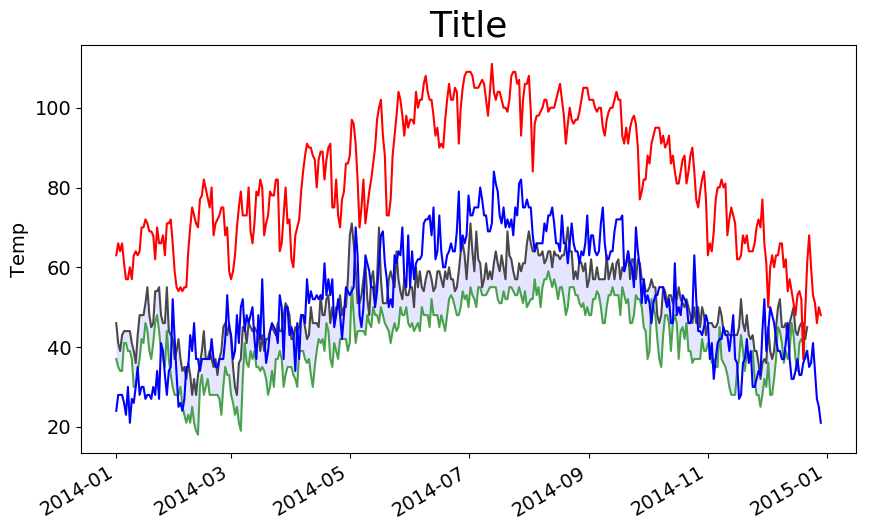
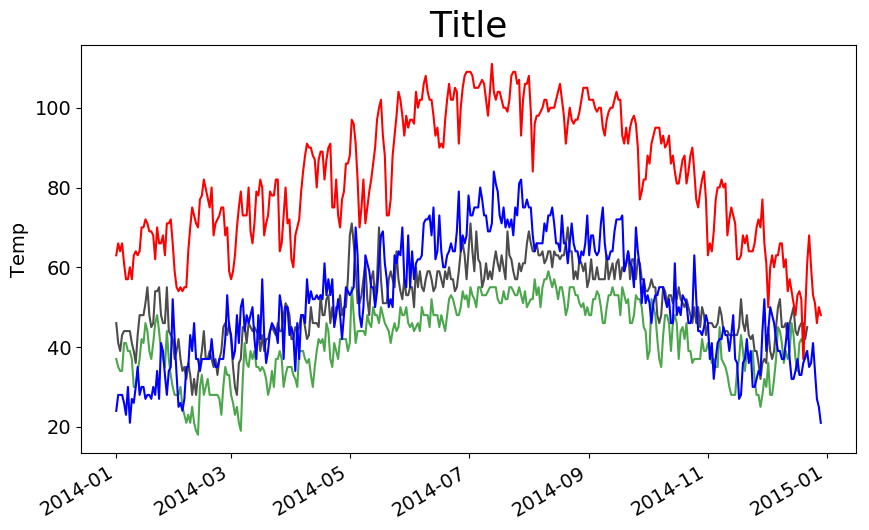
CSV and JSON work

Changed region(s): [[0.1864, 0.4528, 0.901, 0.7849], [0.1243, 0.5736, 0.2175, 0.6943], [0.901, 0.634, 0.9321, 0.6642]]

diff --git a/CSV File Vizualization/sitka_death_valley_rainfall.py b/CSV File Vizualization/sitka_death_valley_rainfall.py
@@ -1,17 +1,36 @@
 import csv
+import matplotlib.pyplot as plt
+from datetime import datetime
+import pygal
 
 filename = 'sitka_weather_2014.csv'
 with open(filename) as f:
     reader = csv.reader(f)
     header = next(reader)
-    print(reader)
-    for index, name in enumerate(reader):
-        print(index, name)
+    # for index, name in enumerate(reader):
+    #     print(index, name)
 
     dates, precips = [], []
     for row in reader:
-        date = row[0]
-        precip = row[19]
+        date = datetime.strptime(row[0], '%Y-%m-%d')
+        precip = int(float(row[19]))
 
         dates.append(date)
         precips.append(precip)
+
+# plt.plot()
+fig = plt.figure(figsize=(10, 6))
+plt.plot(dates, precips, c='red', alpha=.7)
+plt.title('Sitka - Death Valley rainfall comparison -2014', fontsize=26)
+plt.xlabel('', fontsize=14)
+plt.ylabel('Precipitations', fontsize=14)
+plt.tick_params(axis='both', labelsize=14)
+fig.autofmt_xdate()
+plt.savefig('images/sitka_valley_rainfall_2014.png', bbox_inches='tight')
+plt.show()
+
+# pygal.Bar()
+hist = pygal.Bar()
+hist.title = 'Sitka - Death Valley rainfall comparison -2014'
+hist.add('2014', precips)
+hist.render_to_file('images/sitka_valley_rainfall_2014.svg')

diff --git a/CSV File Vizualization/sitka_death_valley_2014.py b/CSV File Vizualization/sitka_death_valley_2014.py
@@ -40,7 +40,7 @@ plt.plot(dates, highs, c='black', alpha=.7)
 plt.plot(dates, lows, c='green', alpha=.7)
 plt.plot(dates_2, highs_2, c='red')
 plt.plot(dates_2, lows_2, c='blue')
-plt.fill_between(dates, highs, lows, facecolor='blue', alpha=.1)
+# plt.fill_between(dates, highs, lows, facecolor='blue', alpha=.1)
 plt.title('Title', fontsize=26)
 plt.xlabel('', fontsize=14)
 plt.ylabel('Temp', fontsize=14)
